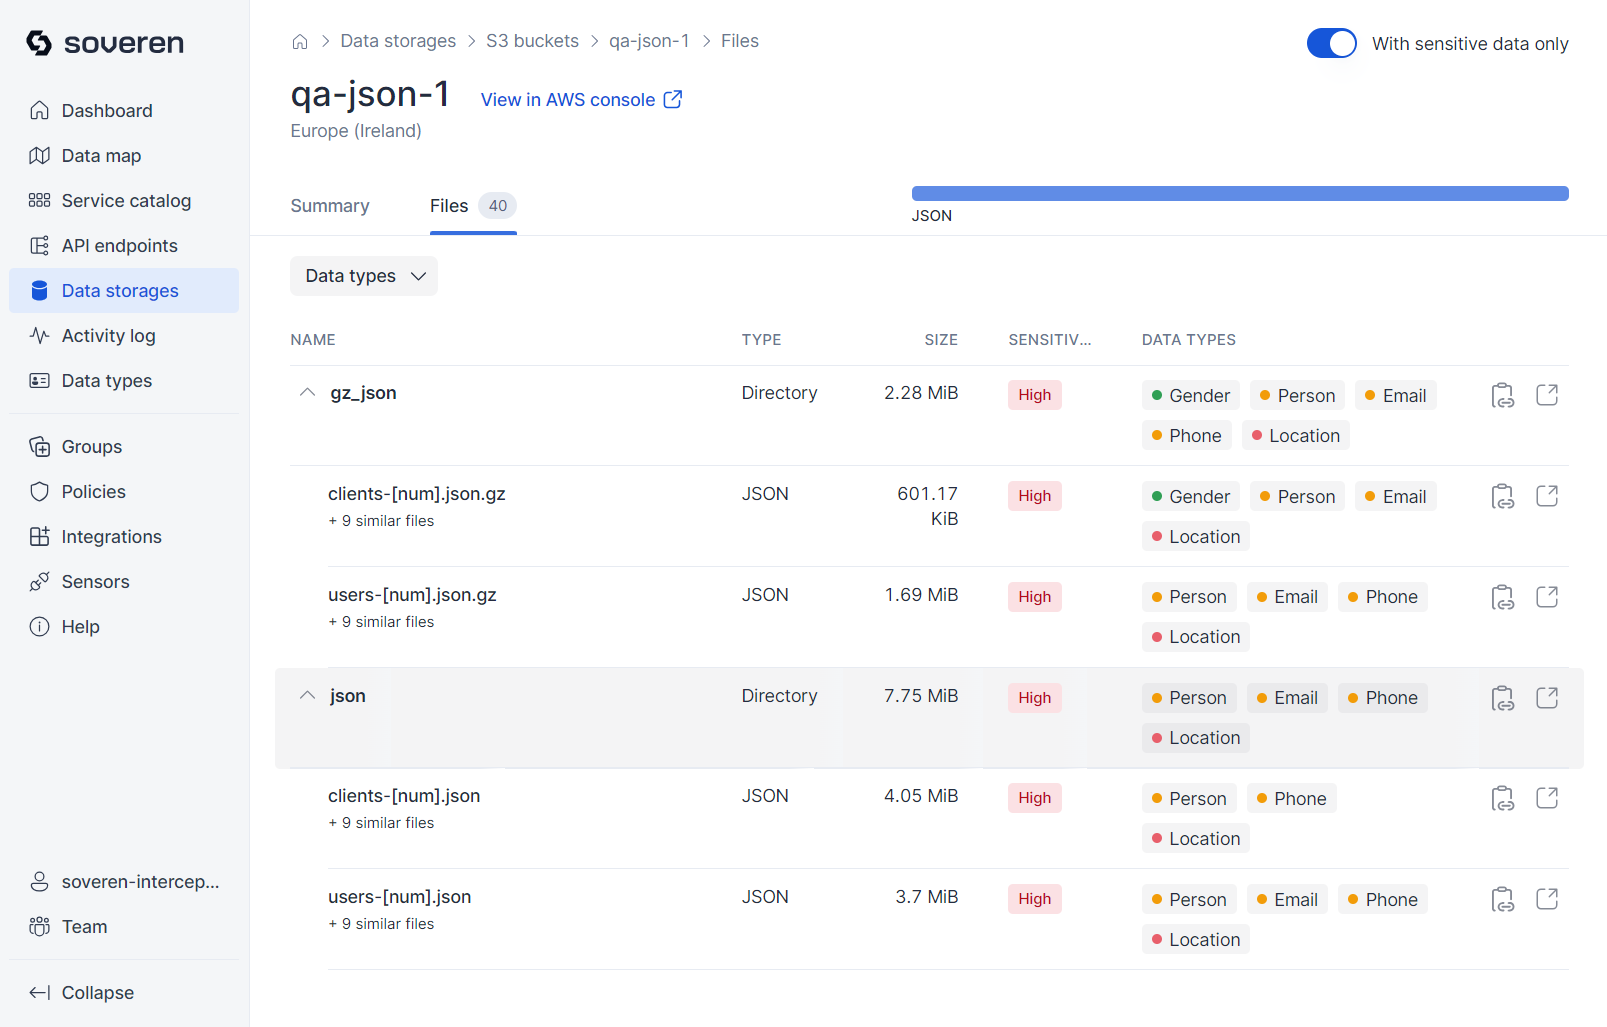
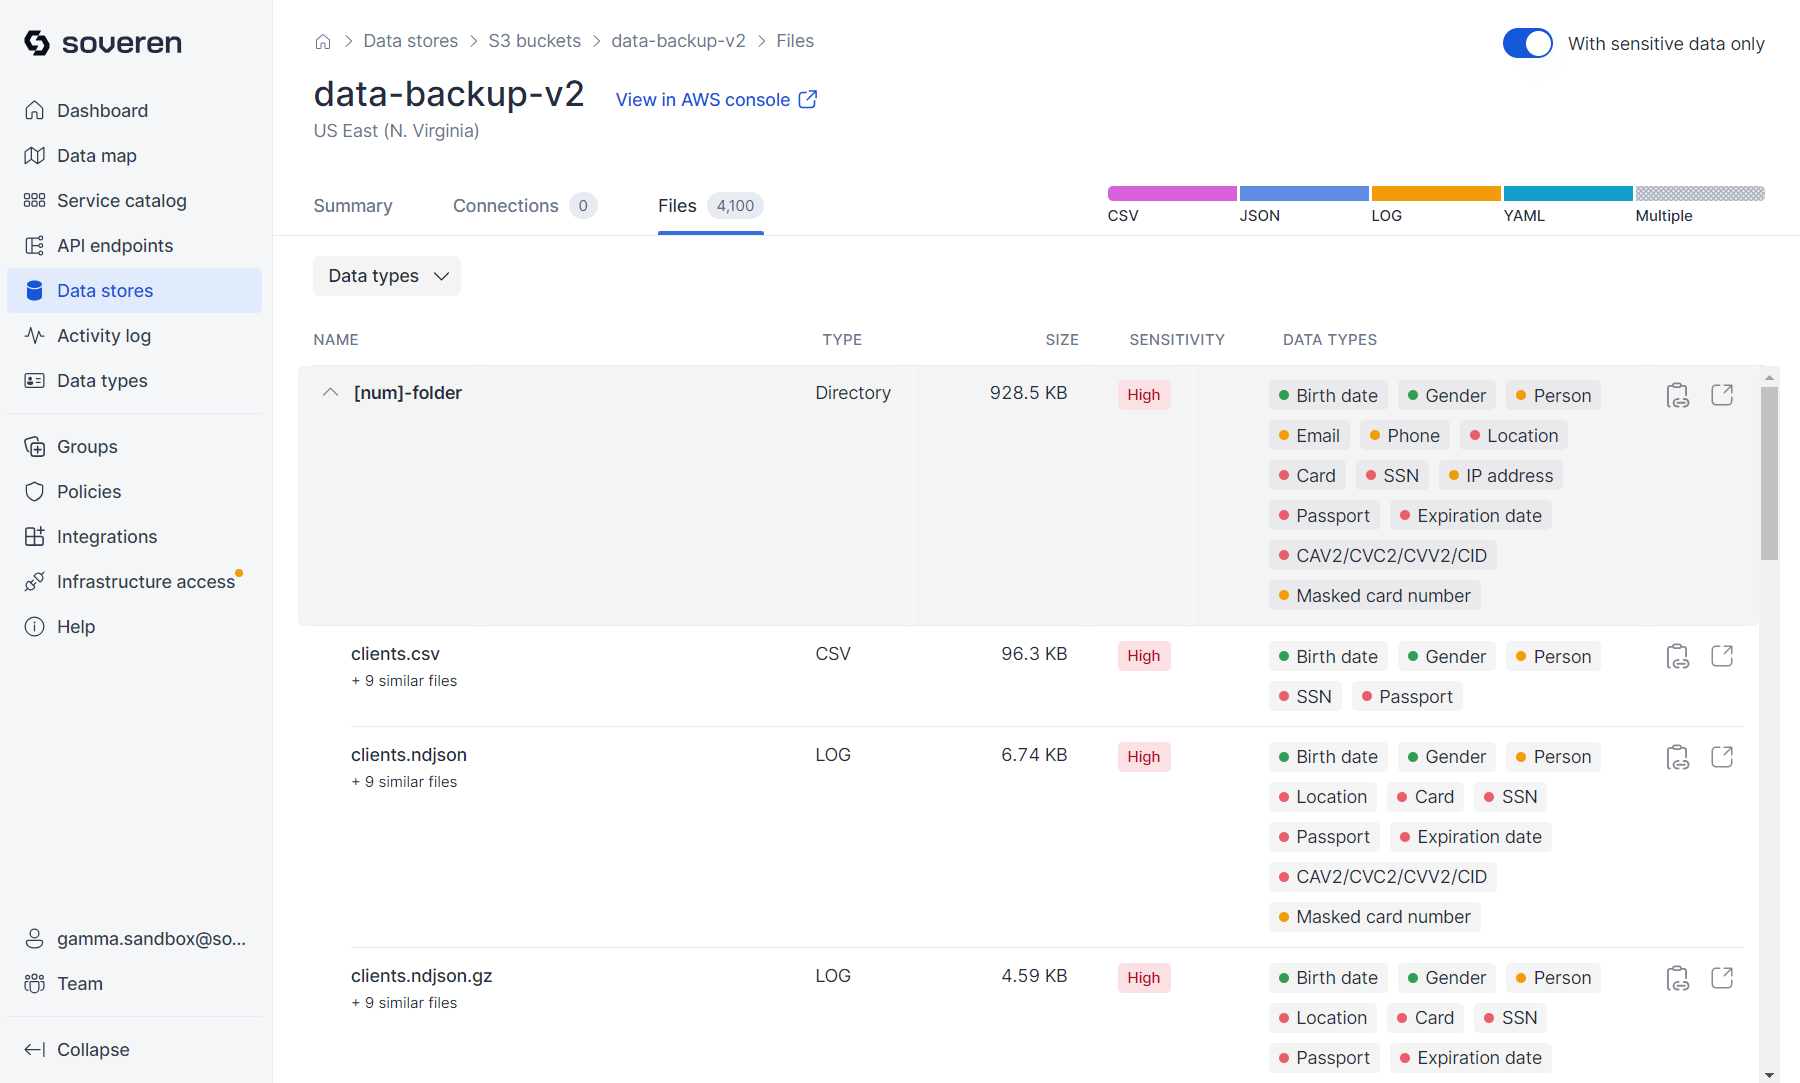
user guide update: new s3 pics, take one on kafka and db

diff --git a/docs/user-guide/overview.md b/docs/user-guide/overview.md
@@ -102,7 +102,9 @@ You can proceed to view a sample of data flowing to or from the endpoint:
 
 ## Data storages
 
-Currently, Soveren includes support for S3 buckets as data storage options.
+Currently, Soveren includes support for S3 buckets, Kafka clusters and PostgreSQL databases.
+
+### S3 buckets
 
 Browse the list of S3 buckets that Soveren has identified in your AWS account:
 
@@ -122,7 +124,25 @@ Soveren analyzes samples from the bucket, running detections on their contents:
 
 You can then view a sample of the data stored in the bucket:
 
-![S3 object sample: detected types](../../img/user-guide/bucket-sample.png "S3 object sample: detected types")
+![S3 object sample: detected types, JSON](../../img/user-guide/bucket-sample-01.png "S3 object sample: detected types, JSON")
+
+![S3 object sample: detected types, CSV](../../img/user-guide/bucket-sample-02.png "S3 object sample: detected types, CSV")
+
+### Kafka
+
+Browse the list of Kafka clusters that you've [configured for monitoring](../administration/configuring-sensor/#kafka_1):
+
+![Kafka clusters list](../../img/user-guide/kafka-clusters-list.png "Kafka clusters list")
+
+Browse the list of topics that are available in the cluster:
+
+![Kafka topics list](../../img/user-guide/kafka-topics-list.png "Kafka topics list")
+
+### Databases
+
+Browse the list of databases that you've [configured for monitoring](../administration/configuring-sensor/#databases):
+
+![Databases list](../../img/user-guide/databases-list.png "Databases list")
 
 ## Activity log
 
